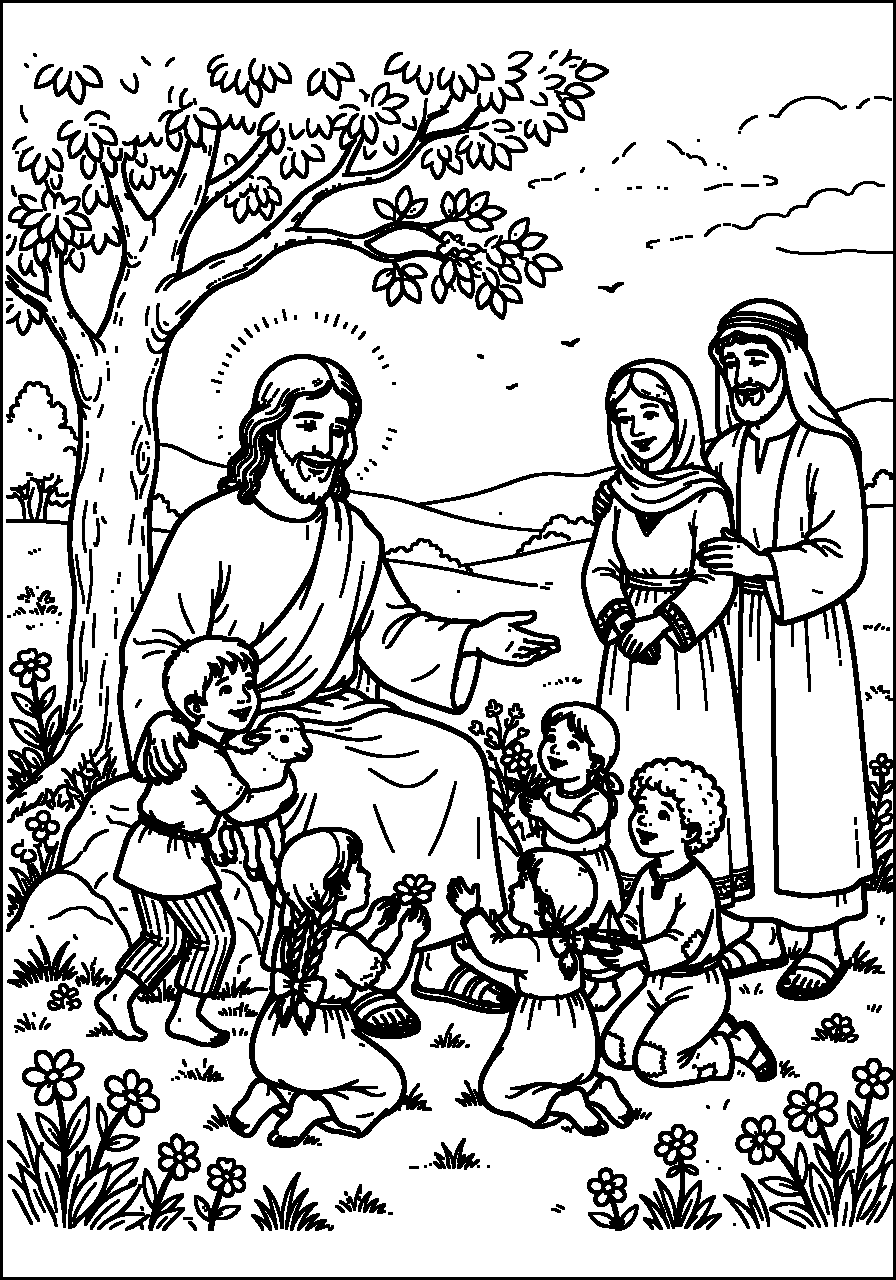
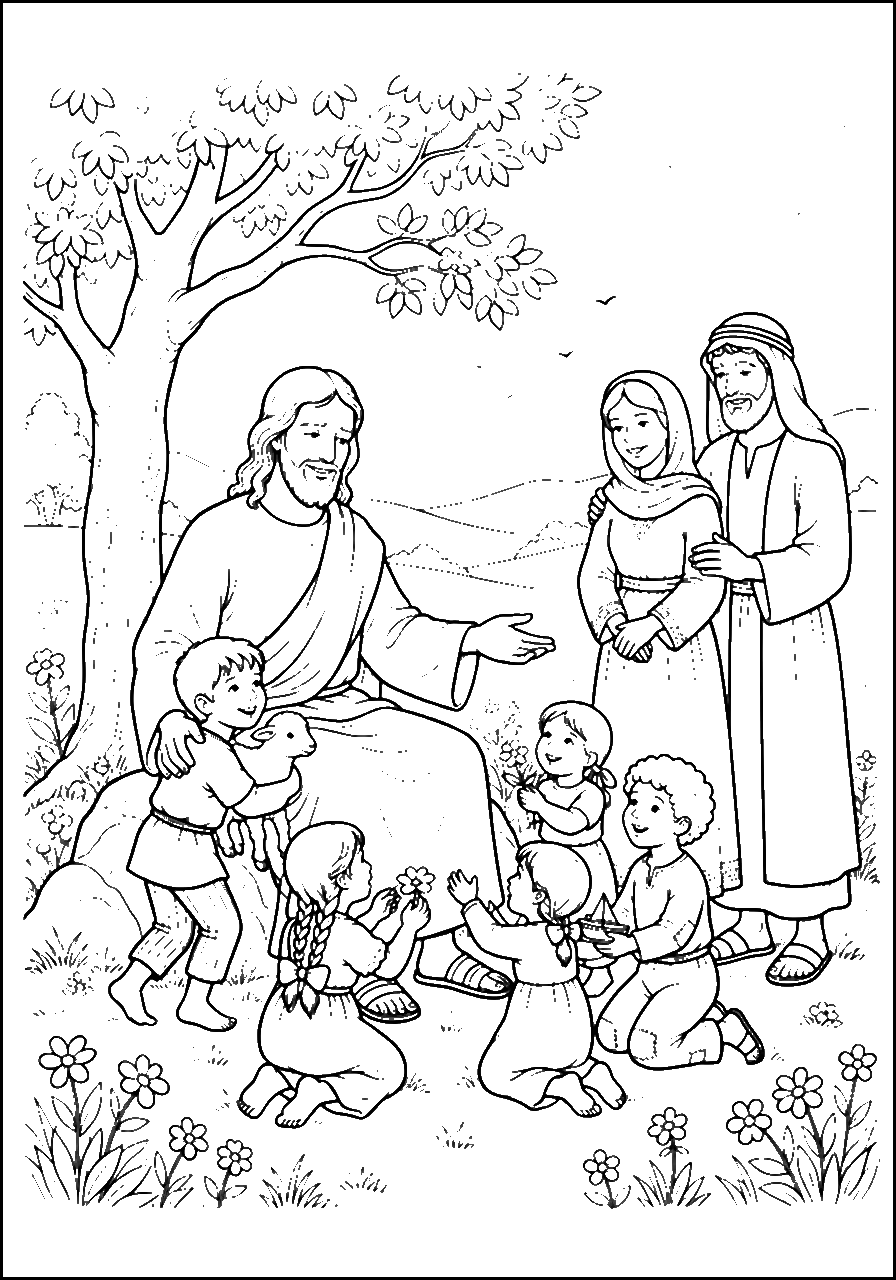
fix(color): smooth coloring-book lines for Jesus & the children (#490)
Replace the grainy 1-bit fill.png with anti-aliased printed-page ink at the same path. ART_CACHE art4 so caches pick it up.

diff --git a/test-site.js b/test-site.js
@@ -202,7 +202,7 @@ const pages = [
   { path: '/bible-study.html', name: 'Bible studies alias', mustInclude: ['Bible studies moved', 'noindex', 'location.replace'] },
   { path: '/pastor-toolkit.html', name: 'Pastor Toolkit', mustInclude: ['Pastor'] },
   { path: '/team-toolkit.html', name: 'Team Toolkit', mustInclude: ['Team', 'Ready-to-use packs'] },
-  { path: '/coloring.html', name: 'Kids Coloring', mustInclude: ['Hear the story', 'The story you hear', 'coloring-listen.json', 'Coloring', 'Kids', 'tdb-cat-parent-tip', 'tdb-cat-root', 'data-tdb-scene-assets', 'Watch My Story', 'Print storyboard', 'color-and-tell.css?v=20260905ink4', 'color-and-tell.js?v=20260905art3', '/vendor/jl-coloringBook.js', 'kids-history-heading', 'Earlier on this device', 'script.js', 'kids-gentle-shepherd.js?v=20260905quiet1', 'at least one scene', 'Choose your story', 'Watch My Story', '/coloring-pages/jesus-children-fill.png', 'Pick a picture. Color it. Save it.'], mustNotInclude: ['Bible Story Library', 'Bible Loop Library', 'Show paint tools for every story'] },
+  { path: '/coloring.html', name: 'Kids Coloring', mustInclude: ['Hear the story', 'The story you hear', 'coloring-listen.json', 'Coloring', 'Kids', 'tdb-cat-parent-tip', 'tdb-cat-root', 'data-tdb-scene-assets', 'Watch My Story', 'Print storyboard', 'color-and-tell.css?v=20260905ink4', 'color-and-tell.js?v=20260905art4', '/vendor/jl-coloringBook.js', 'kids-history-heading', 'Earlier on this device', 'script.js', 'kids-gentle-shepherd.js?v=20260905quiet1', 'at least one scene', 'Choose your story', 'Watch My Story', '/coloring-pages/jesus-children-fill.png', 'Pick a picture. Color it. Save it.'], mustNotInclude: ['Bible Story Library', 'Bible Loop Library', 'Show paint tools for every story'] },
   { path: '/family.html', name: 'Family hub', mustInclude: ['href="/daily-quiet-time"', 'Daily quiet time', 'tdb-porch-verse-widget__hint', 'Same daily KJV as Home', 'id="tdbPorchVerseWidget"', 'Hide for today', 'tdb-porch-verse-widget', 'Read with breakdown', 'For Families', 'family-hub-hero--soar-dawn', 'id="familyPorchPathCross"', 'At the table tonight', 'tdb-porch-path-card__chip-row', 'kids/porch-read-sibling-friction.html', 'kids/porch-read-bedtime-hush.html', 'family-armor-little-ones.html', 'More quiet doors', 'kids/porch-read-soft-answer.html', 'kids/porch-read-do-not-fear.html', 'kids/porch-read-still-waters.html', 'kids/porch-read-mealtime-thankfulness.html', 'kids/porch-read-one-leper-came-back.html', 'kids/porch-read-busy-table.html', 'kids/porch-read-mustard-quiet.html', 'kids/porch-read-when-god-speaks-quietly.html', 'kids/porch-read-when-waiting-feels-long.html', 'kids/porch-read-suffer-little-children.html', 'kids/porch-read-forgiveness-after-fight.html', 'kids/porch-read-when-wrong-feels-loud.html', 'kids/porch-read-when-friendship-costs.html', 'kids/porch-read-narrow-way.html', 'plans.html?plan=parentweary', 'coloring.html">Color one story', 'id="family-hub-hero-heading"', 'id="family-quick-start-verse"', 'family-daily-verse-root', 'tdb-family-print-verse-btn', 'daily-verse-body', 'family-plan-progress-whisper', 'Each plan keeps its own day', 'family-plan-cards', 'id="family-prayer-wall"', 'A quiet place for your family', 'family-armor.html', 'Family Armor &amp; Stories', 'Daily quiet time', 'family-activity-packs.html', 'family-youth-journal.html', 'plans.html?plan=familyworship', 'plans.html?plan=eveninguog', 'Evening in the University', 'evening-university-print.html', 'university-at-the-table-print.html', 'morning-evening-family-print.html', 'one-week-in-the-university-print.html', 'plans.html?plan=psalmscomfortfamily', 'plans.html?plan=beatitudes-kids', 'Beatitudes for Kids', 'plans.html?plan=lordsprayer-kids', 'tdb-plan-lordsprayer-kids-day', 'plans.html?plan=sower', 'Parable of the Sower for Kids', 'plans.html?plan=sower-kids', 'tdb-plan-sower-kids-day', 'Your family has walked', 'Kids play door', 'For the Little Ones', '/little-ones.html', 'Bible Loop Library', 'Bible Story Library', 'ages 3&ndash;4 with a grown-up', 'id="family-kids-plans-guide-heading"', 'How to use Plans with your kids', 'id="family-homeschool-sharing-note"', 'church-sharing-kit.html#csk-homesch', 'church-sharing-kit.html#csk-homesch-tracker', 'Homeschooling or co-op', 'id="family-devotion-rhythm-heading"', 'A simple family devotion rhythm', 'church-sharing-kit.html#csk-family-devotion-expanded', 'The site will remember where we are', 'id="family-year-round-rhythm"', 'id="family-year-round-tools"', 'family-yrt-votm-line', 'Year-round tools', 'year-at-a-glance.html', 'plans.html?plan=summer-seeds', 'church-sharing-kit.html#csk-homeschool-year-round', 'id="family-year-round-memory"', 'id="memory-verses"', 'memory-verses-shell', 'memory-section', 'memory-verses.js', 'yearly-rhythm.html#yr-memory', 'Year-round &amp; Memory Verses', 'church-sharing-kit.html#csk-memory-verse-cards', 'yearly-rhythm.html#yr-print-planners', 'church-sharing-kit.html#csk-print-planners', 'yearly-rhythm.html', 'Year-round rhythm', 'church-sharing-kit.html#csk-memory-verse-activities', 'Gentle memory verse activities', 'memory-verse-activities-print.html', 'tdb-cache-hygiene:', 'family-hub-onpage-nav', '2-minute start', 'Paper when you want it', 'More for school nights'] },
   { path: '/little-ones.html', name: 'For the Little Ones', mustInclude: ['For the little ones', 'One gentle place to land with your little ones', 'Today&rsquo;s verse for little hearts', 'id="little-ones-verse-root"', 'id="little-ones-verse-ref"', 'id="little-ones-verse-text"', 'Read aloud', 'Story &amp; color together', 'Jesus &amp; the children', 'Good Shepherd', 'Print this coloring page', 'Gentle starting places by age', 'Ages 3–4', 'Family Armor lite', 'family-armor-little-ones.html', 'little-ones.js?v=20260415littleones', 'rel="canonical" href="https://todaysdailybattle.com/little-ones.html"', 'little-ones-onpage-nav', 'id="little-ones-more-quiet"'] },
   { path: '/family-armor.html', name: 'Family Armor', mustInclude: ['Family Armor &amp; Stories', 'id="familyArmorStoryFirstPath"', 'family-armor-hero-verse-frame', 'id="family-armor-hero-ref"', 'daily-verse-body', 'whole armour of God', 'Ephesians 6:10', 'family-armor-pieces-grid', 'Praying always', 'Open the Family Armor workspace', '/#armor-builder-btn', 'kids/corner.html', 'family.html', 'curriculum.html', 'family-armor-trust-strip', 'stays on this device', 'family-armor-little-ones.html#fa-littles-morning-reset', 'Morning reset', 'family-armor-little-ones.html#fa-littles-bedtime-prayer', 'Bedtime prayer'] },

diff --git a/coloring.html b/coloring.html
@@ -374,7 +374,7 @@
   <script defer src="/vendor/jl-coloringBook.js?v=20260826fill1"></script>
   <script defer src="/kids/kids-gentle-journey.js?v=20260503goal365"></script>
   <link rel="preload" href="kids/data/coloring-listen.json?v=20260905listen3" as="fetch" crossorigin>
-  <script defer src="kids/color-and-tell.js?v=20260905art3"></script>
+  <script defer src="kids/color-and-tell.js?v=20260905art4"></script>
   <script type="module" src="config.js"></script>
   <script nonce="tdb2025s" defer src="/footer-build-stamp.js?v=20260820polish"></script>
   <script type="module" src="script.js?v=20260826desk69" data-cfasync="false"></script>

diff --git a/dist/coloring.html b/dist/coloring.html
@@ -376,7 +376,7 @@
   <script defer src="/vendor/jl-coloringBook.js?v=20260826fill1"></script>
   <script defer src="/kids/kids-gentle-journey.js?v=20260503goal365"></script>
   <link rel="preload" href="kids/data/coloring-listen.json?v=20260905listen3" as="fetch" crossorigin>
-  <script defer src="kids/color-and-tell.js?v=20260905art3"></script>
+  <script defer src="kids/color-and-tell.js?v=20260905art4"></script>
   <script type="module" src="config.js"></script>
   <script nonce="tdb2025s" defer src="/footer-build-stamp.js?v=20260820polish"></script>
   <script type="module" src="script.js?v=20260826desk69" data-cfasync="false"></script>

diff --git a/dist/kids/color-and-tell.js b/dist/kids/color-and-tell.js
@@ -646,7 +646,7 @@
   // TDB_SCENE_ART_END
 
   /** Returns the best available line-art src for a scene (raster preferred). */
-  var ART_CACHE = '20260905art3';
+  var ART_CACHE = '20260905art4';
   function bestSceneSrc(scene) {
     if (!scene || !scene.src) return '';
     var src = (TDB_SCENE_ART && TDB_SCENE_ART[scene.src]) || scene.src;

diff --git a/kids/color-and-tell.js b/kids/color-and-tell.js
@@ -646,7 +646,7 @@
   // TDB_SCENE_ART_END
 
   /** Returns the best available line-art src for a scene (raster preferred). */
-  var ART_CACHE = '20260905art3';
+  var ART_CACHE = '20260905art4';
   function bestSceneSrc(scene) {
     if (!scene || !scene.src) return '';
     var src = (TDB_SCENE_ART && TDB_SCENE_ART[scene.src]) || scene.src;
